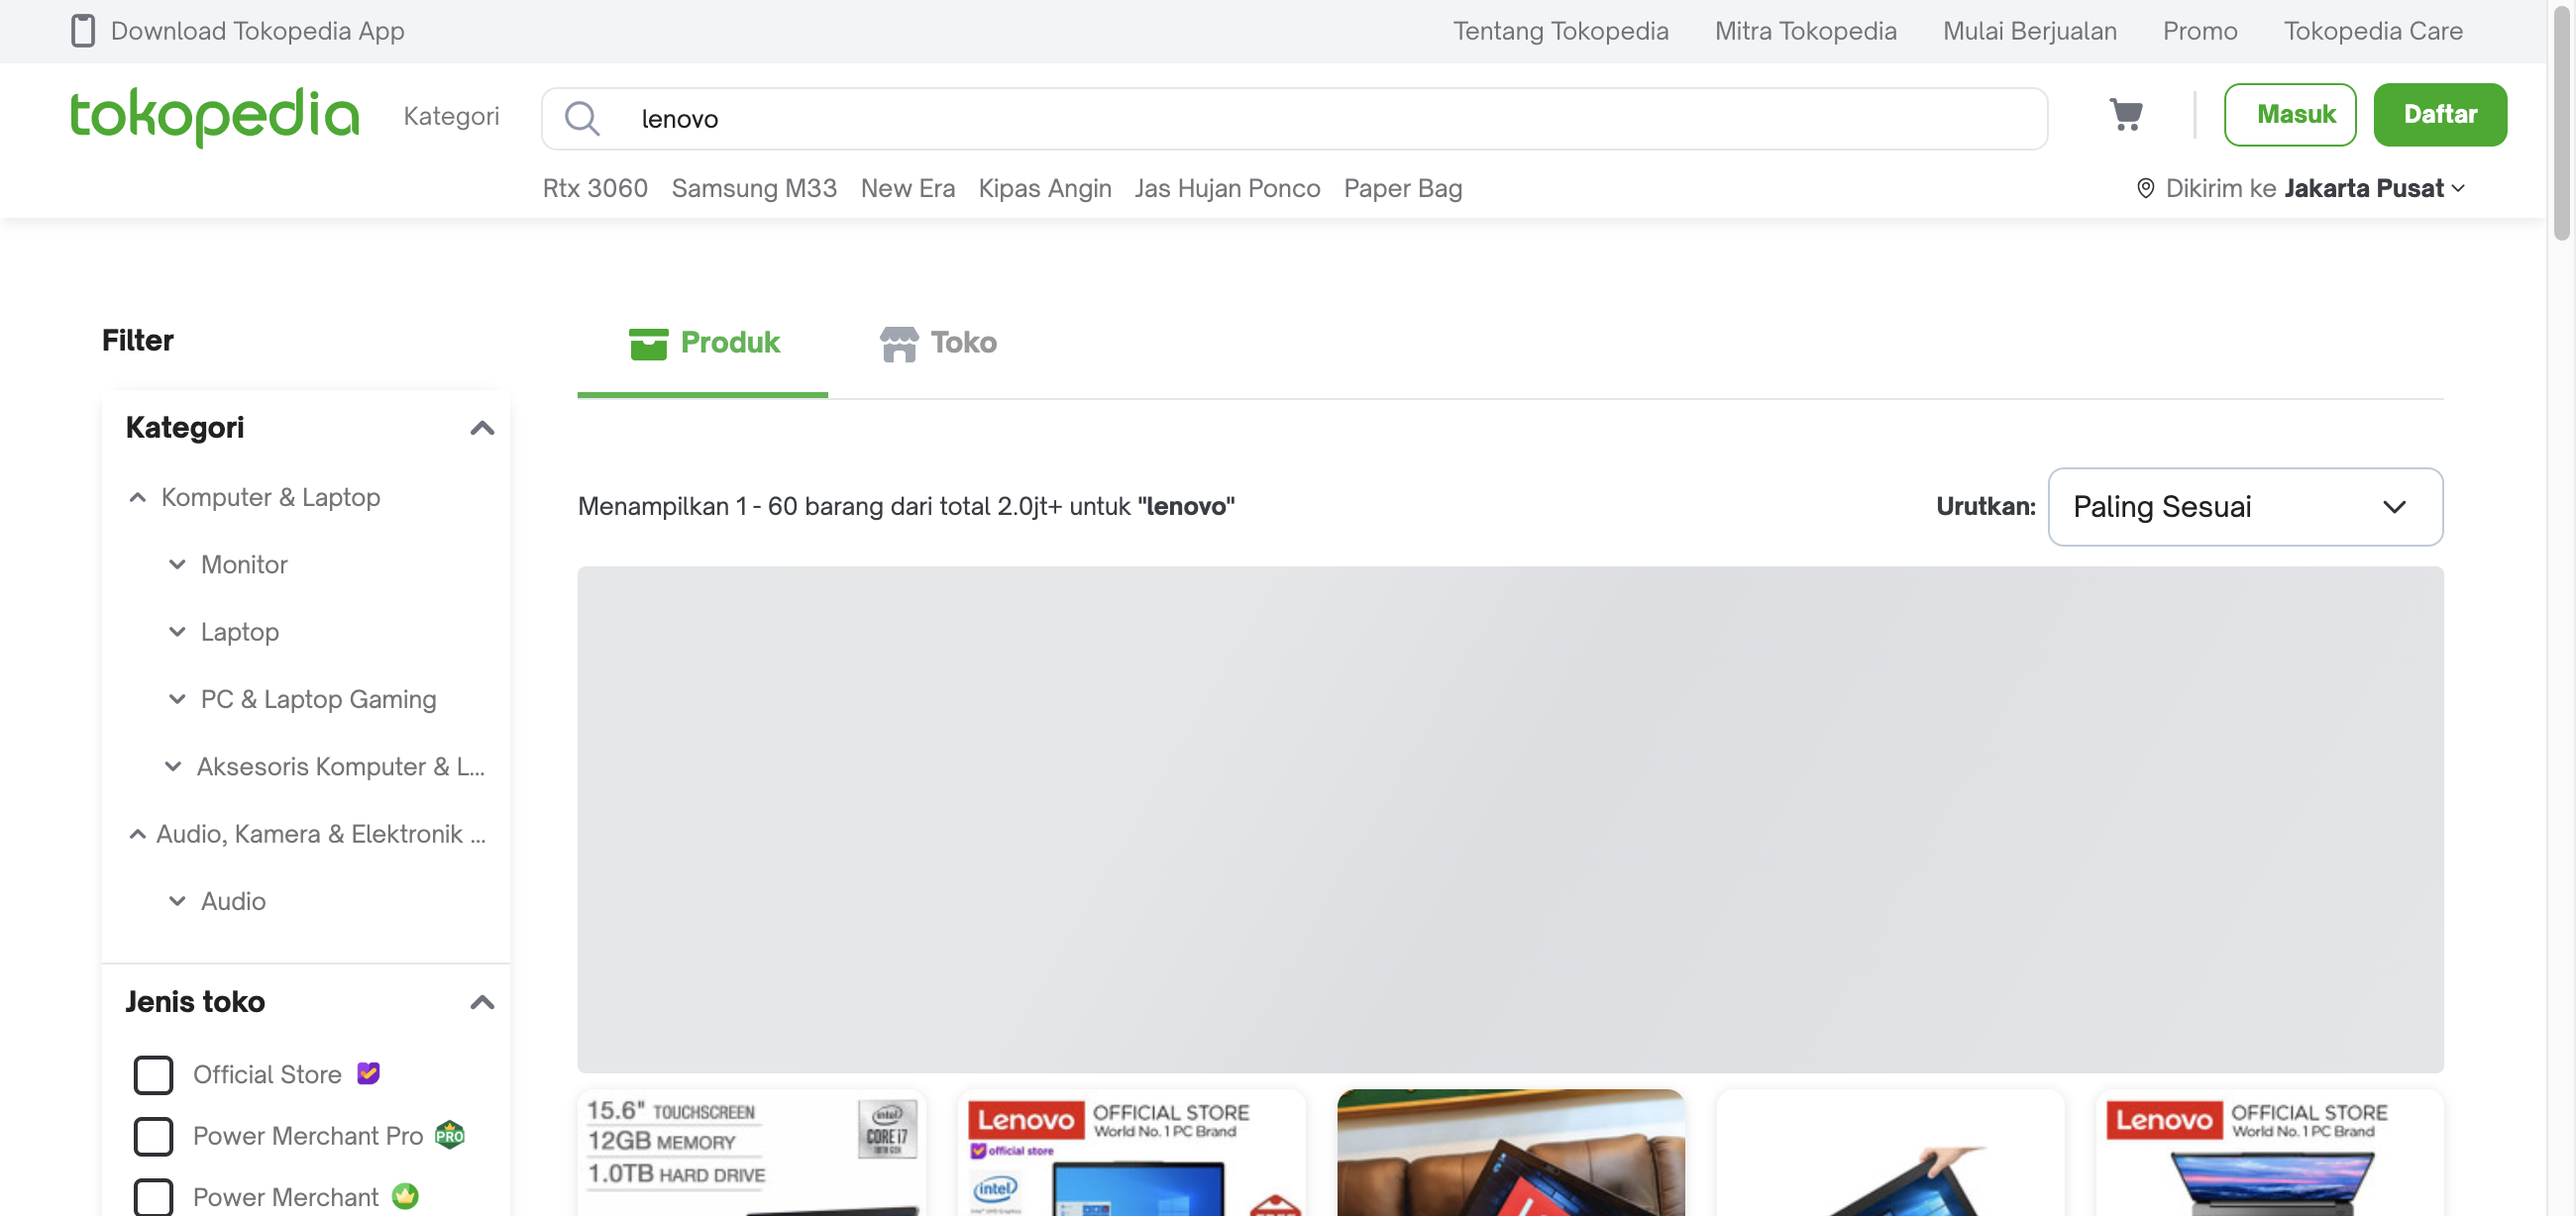
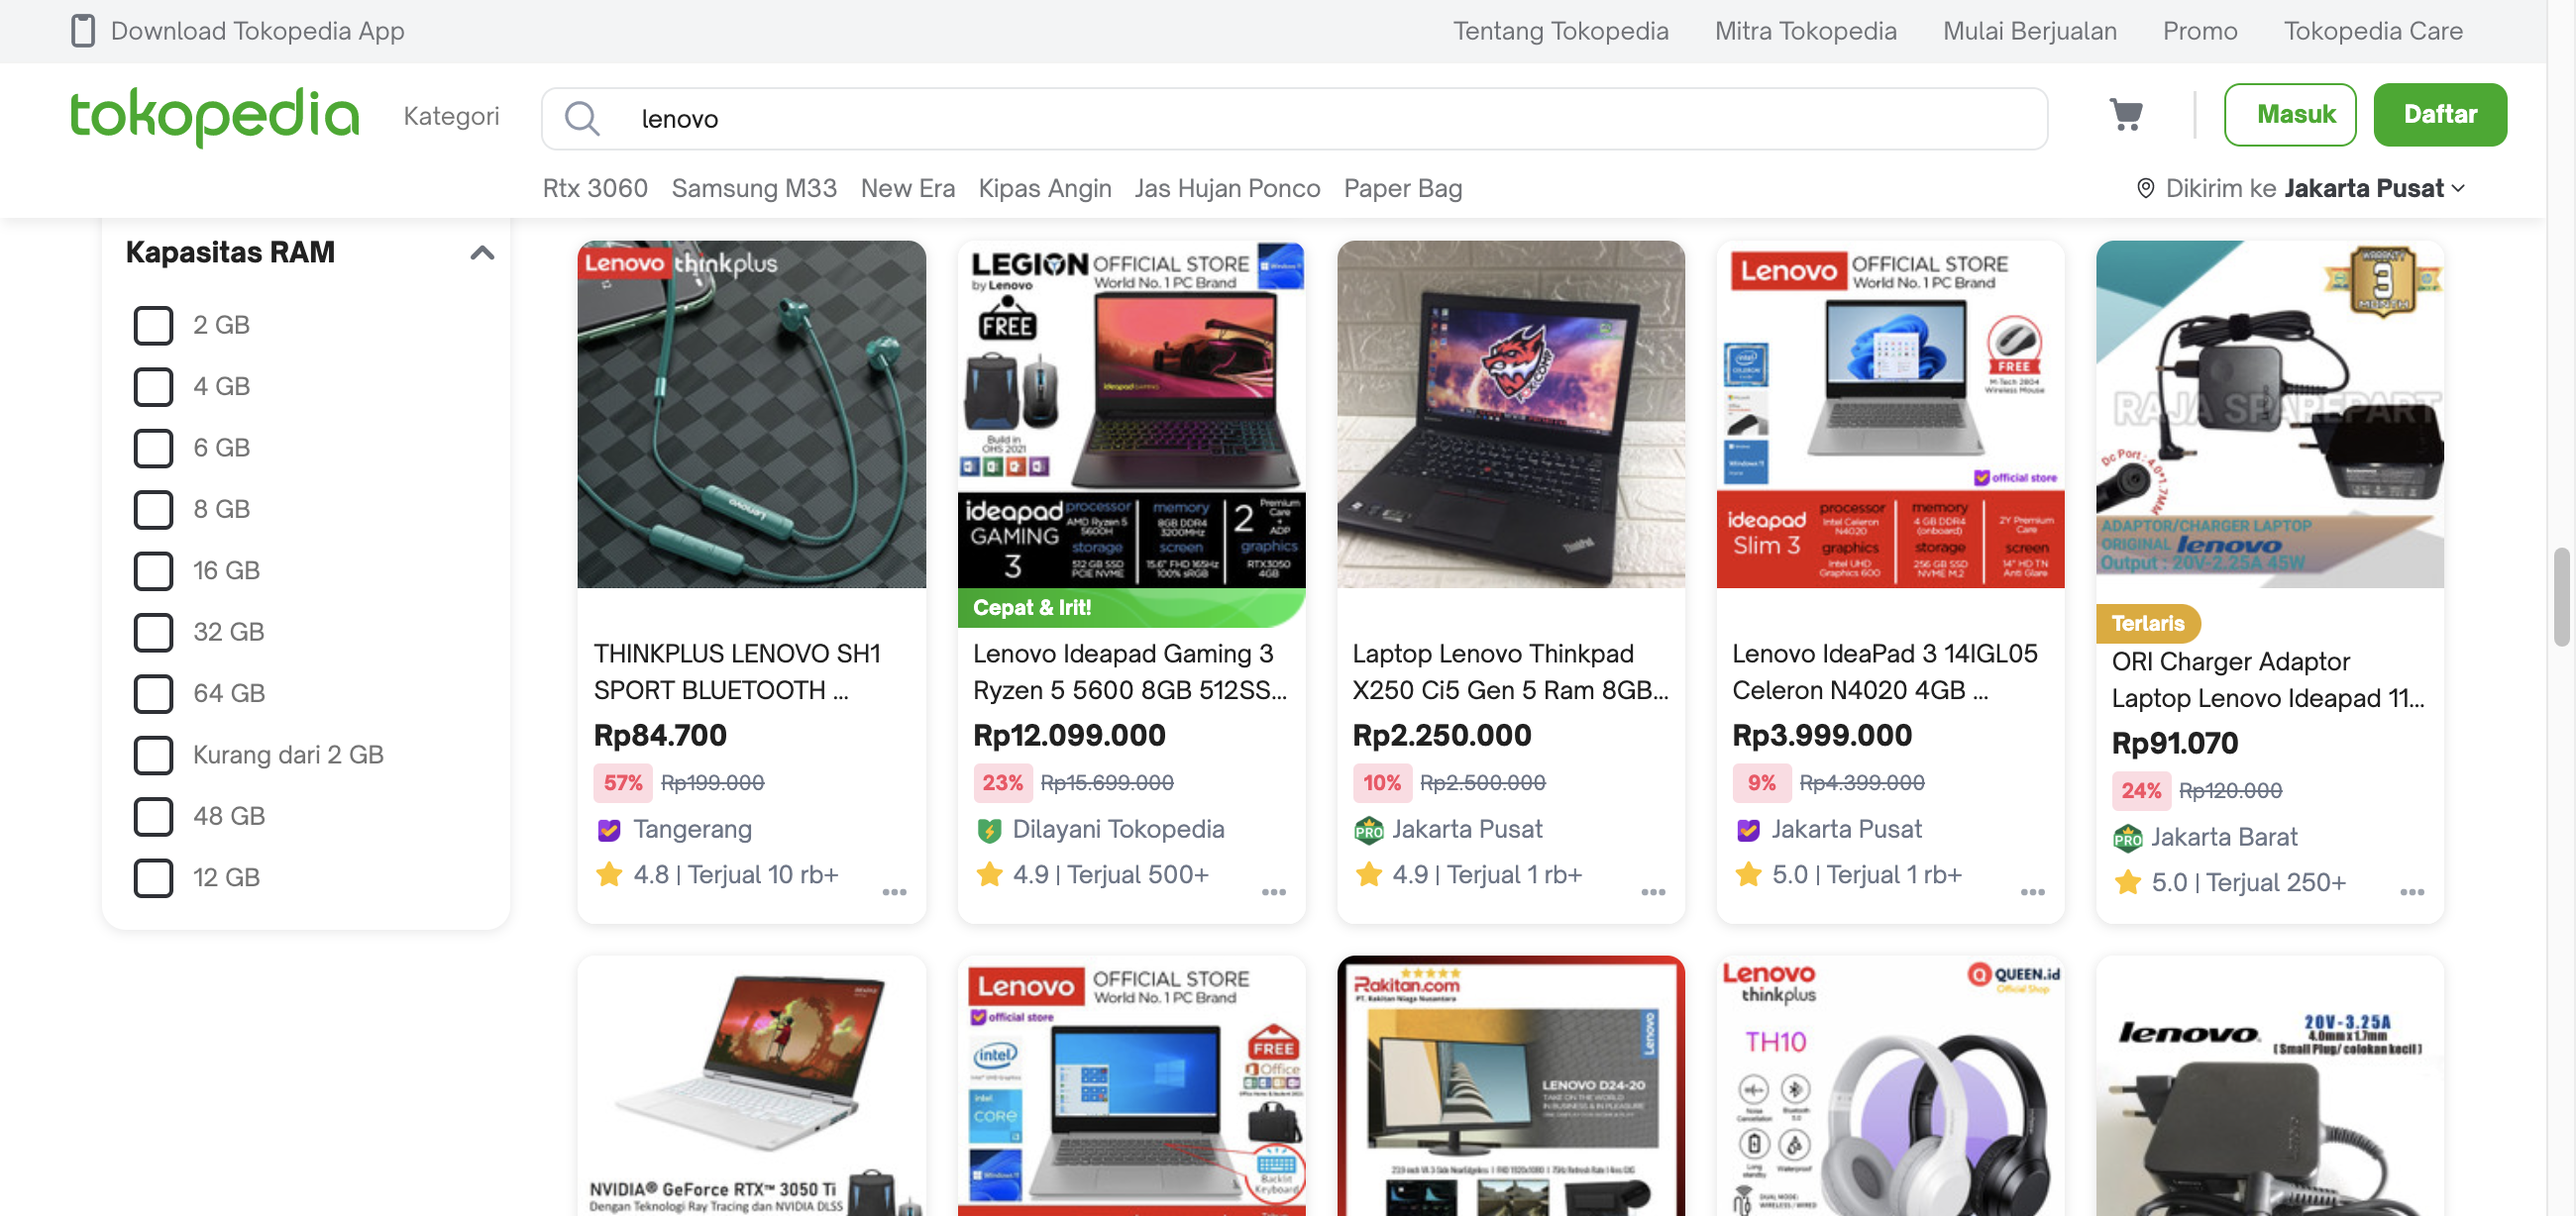
new
new

diff --git a/Web Scraping/Tokped/Tokped.py b/Web Scraping/Tokped/Tokped.py
@@ -22,6 +22,15 @@ driver = webdriver.Chrome()
 tokped_link = "https://www.tokopedia.com/search?st=product&q=macbook&srp_component_id=02.01.00.00&srp_page_id=&srp_page_title=&navsource="
 driver.set_window_size(1300, 800)
 driver.get(tokped_link)
+
+rentang = 500
+for i in range(1,7):
+    akhir = rentang * i 
+    perintah = "window.scrollTo(0,"+str(akhir)+")"
+    driver.execute_script(perintah)
+    print("loading ke-"+str(i))
+    time.sleep(1)
+
 driver.save_screenshot("Web Scraping/Tokped/macbook.png")
 time.sleep(5)
 content = driver.page_source
@@ -42,6 +51,15 @@ for area in data.find_all('div',class_="pcv3__container css-gfx8z3"):
 
 tokped_link = "https://www.tokopedia.com/search?st=product&q=lenovo&srp_component_id=01.07.00.00&srp_page_id=&srp_page_title=&navsource="
 driver.get(tokped_link)
+
+rentang = 500
+for i in range(1,7):
+    akhir = rentang * i 
+    perintah = "window.scrollTo(0,"+str(akhir)+")"
+    driver.execute_script(perintah)
+    print("loading ke-"+str(i))
+    time.sleep(1)
+    
 driver.save_screenshot("Web Scraping/Tokped/lenovo.png")
 time.sleep(5)
 content = driver.page_source
